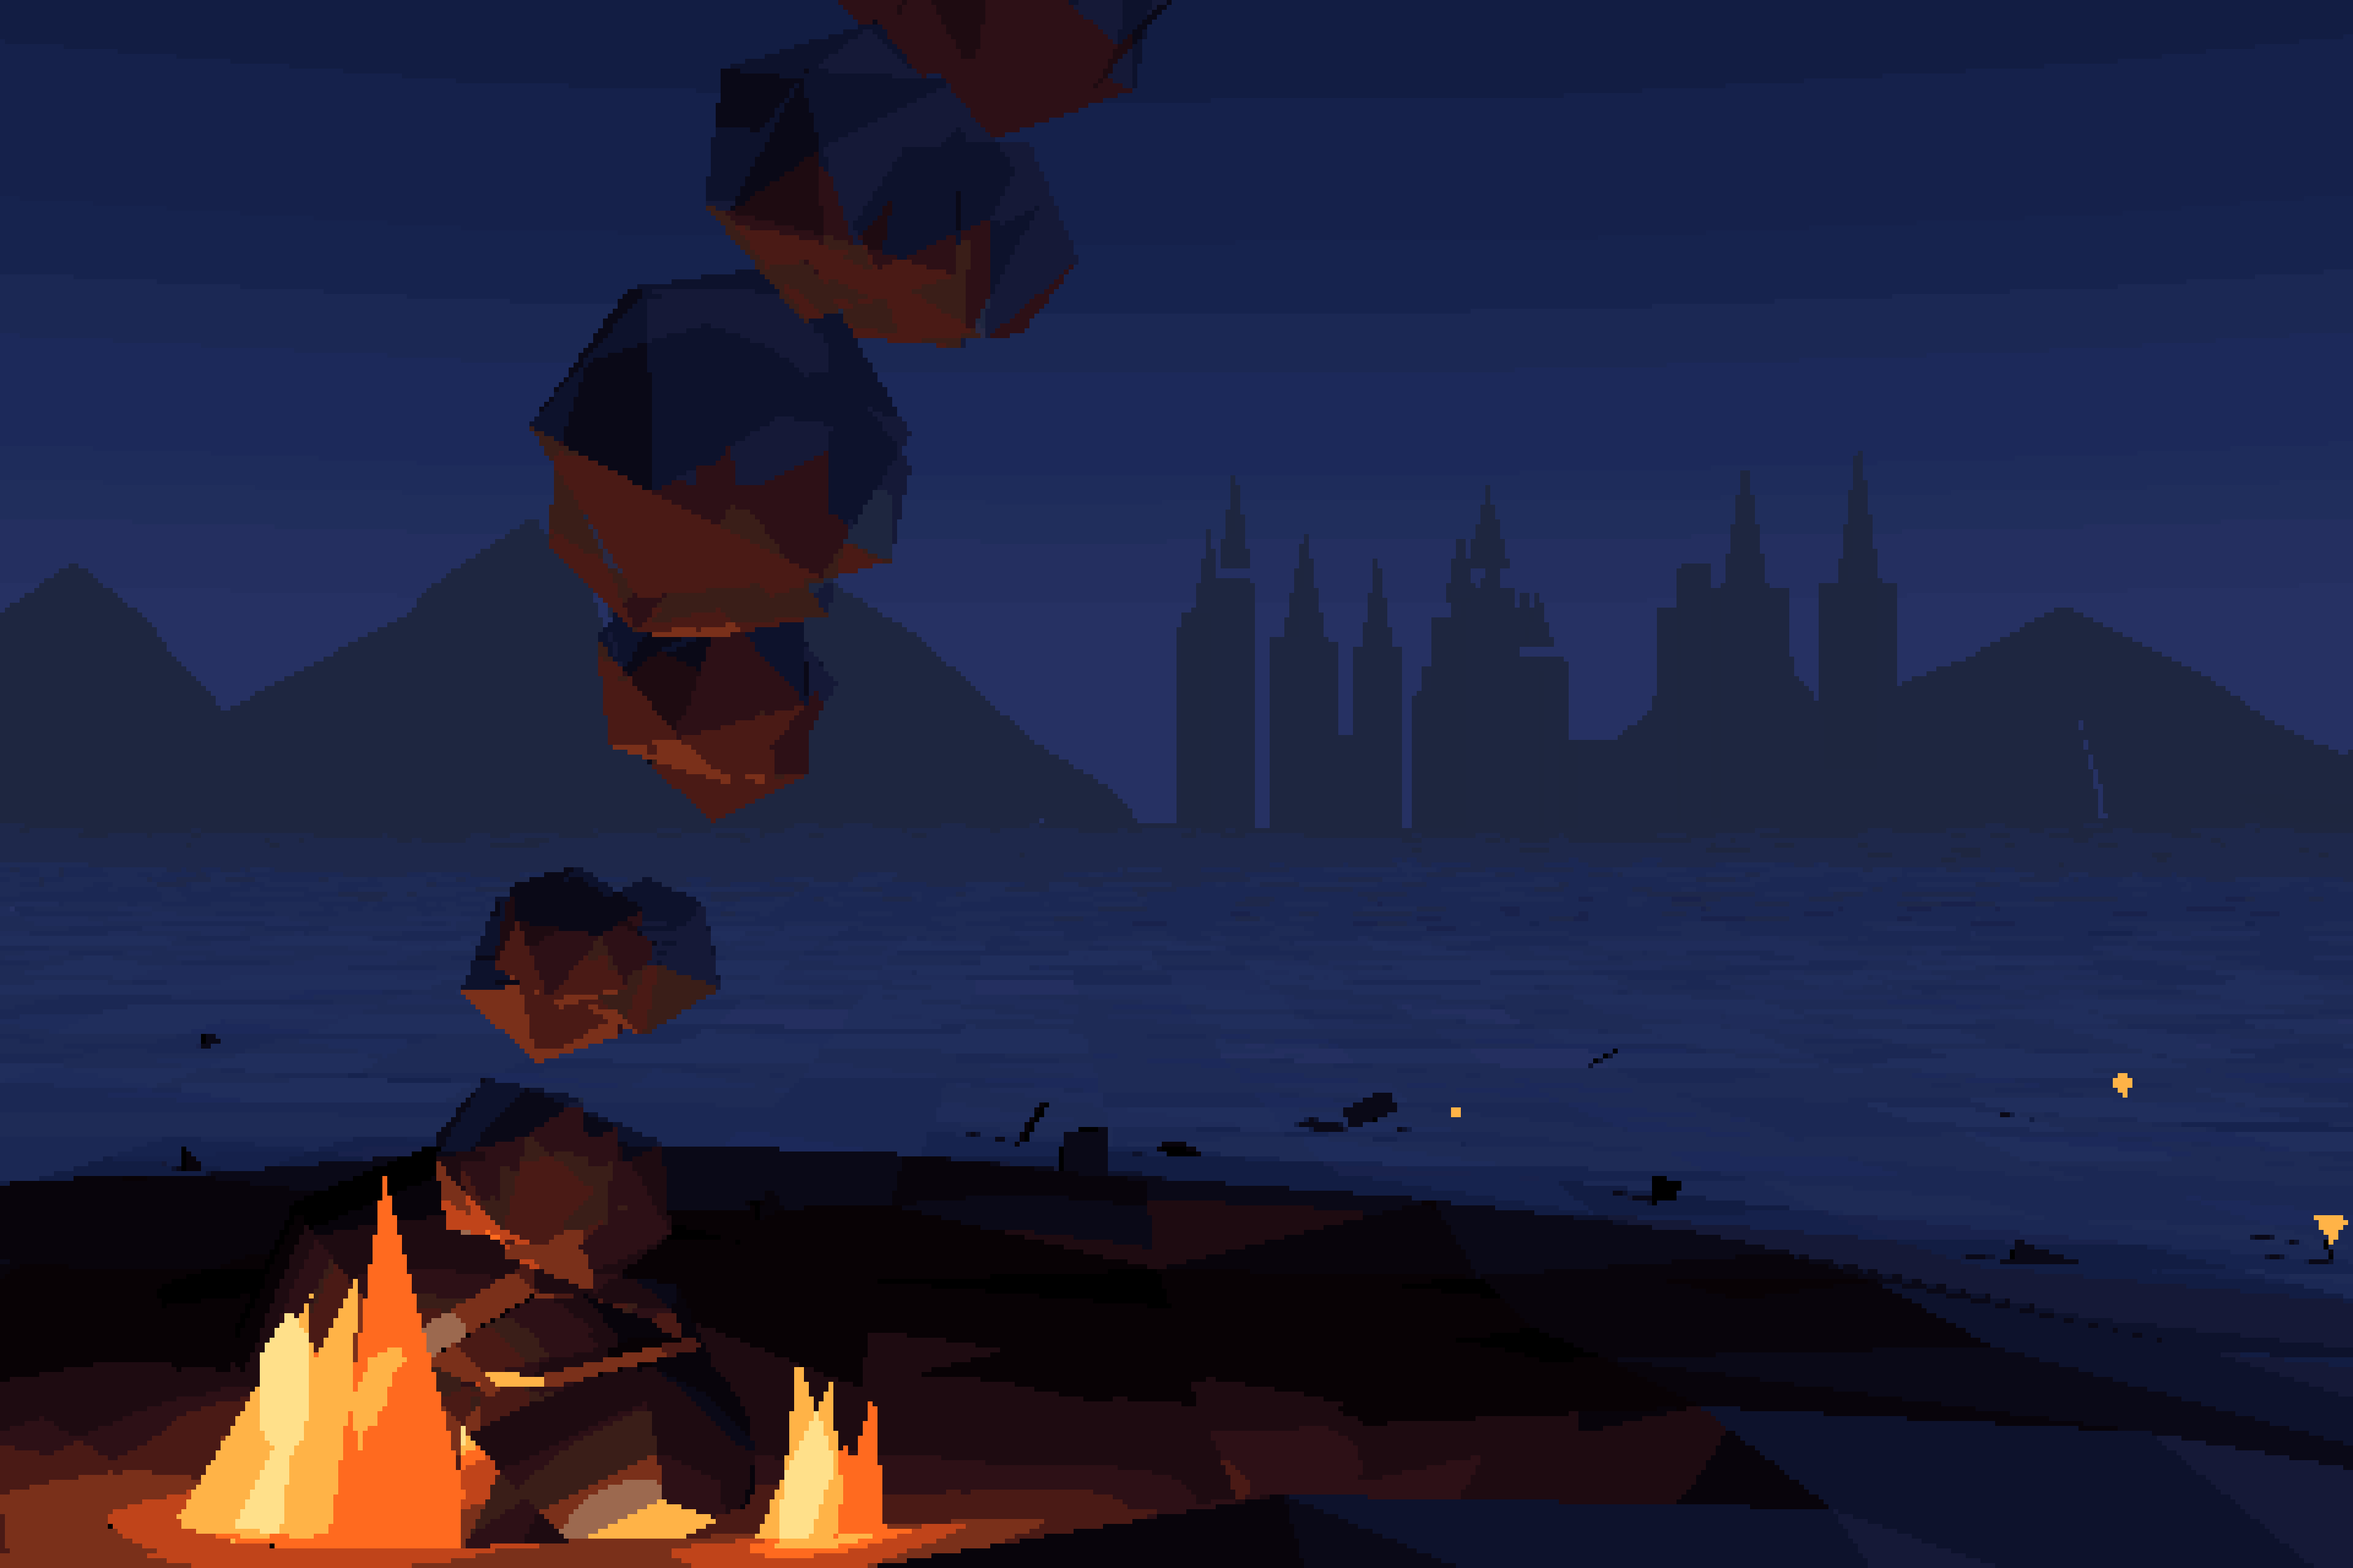
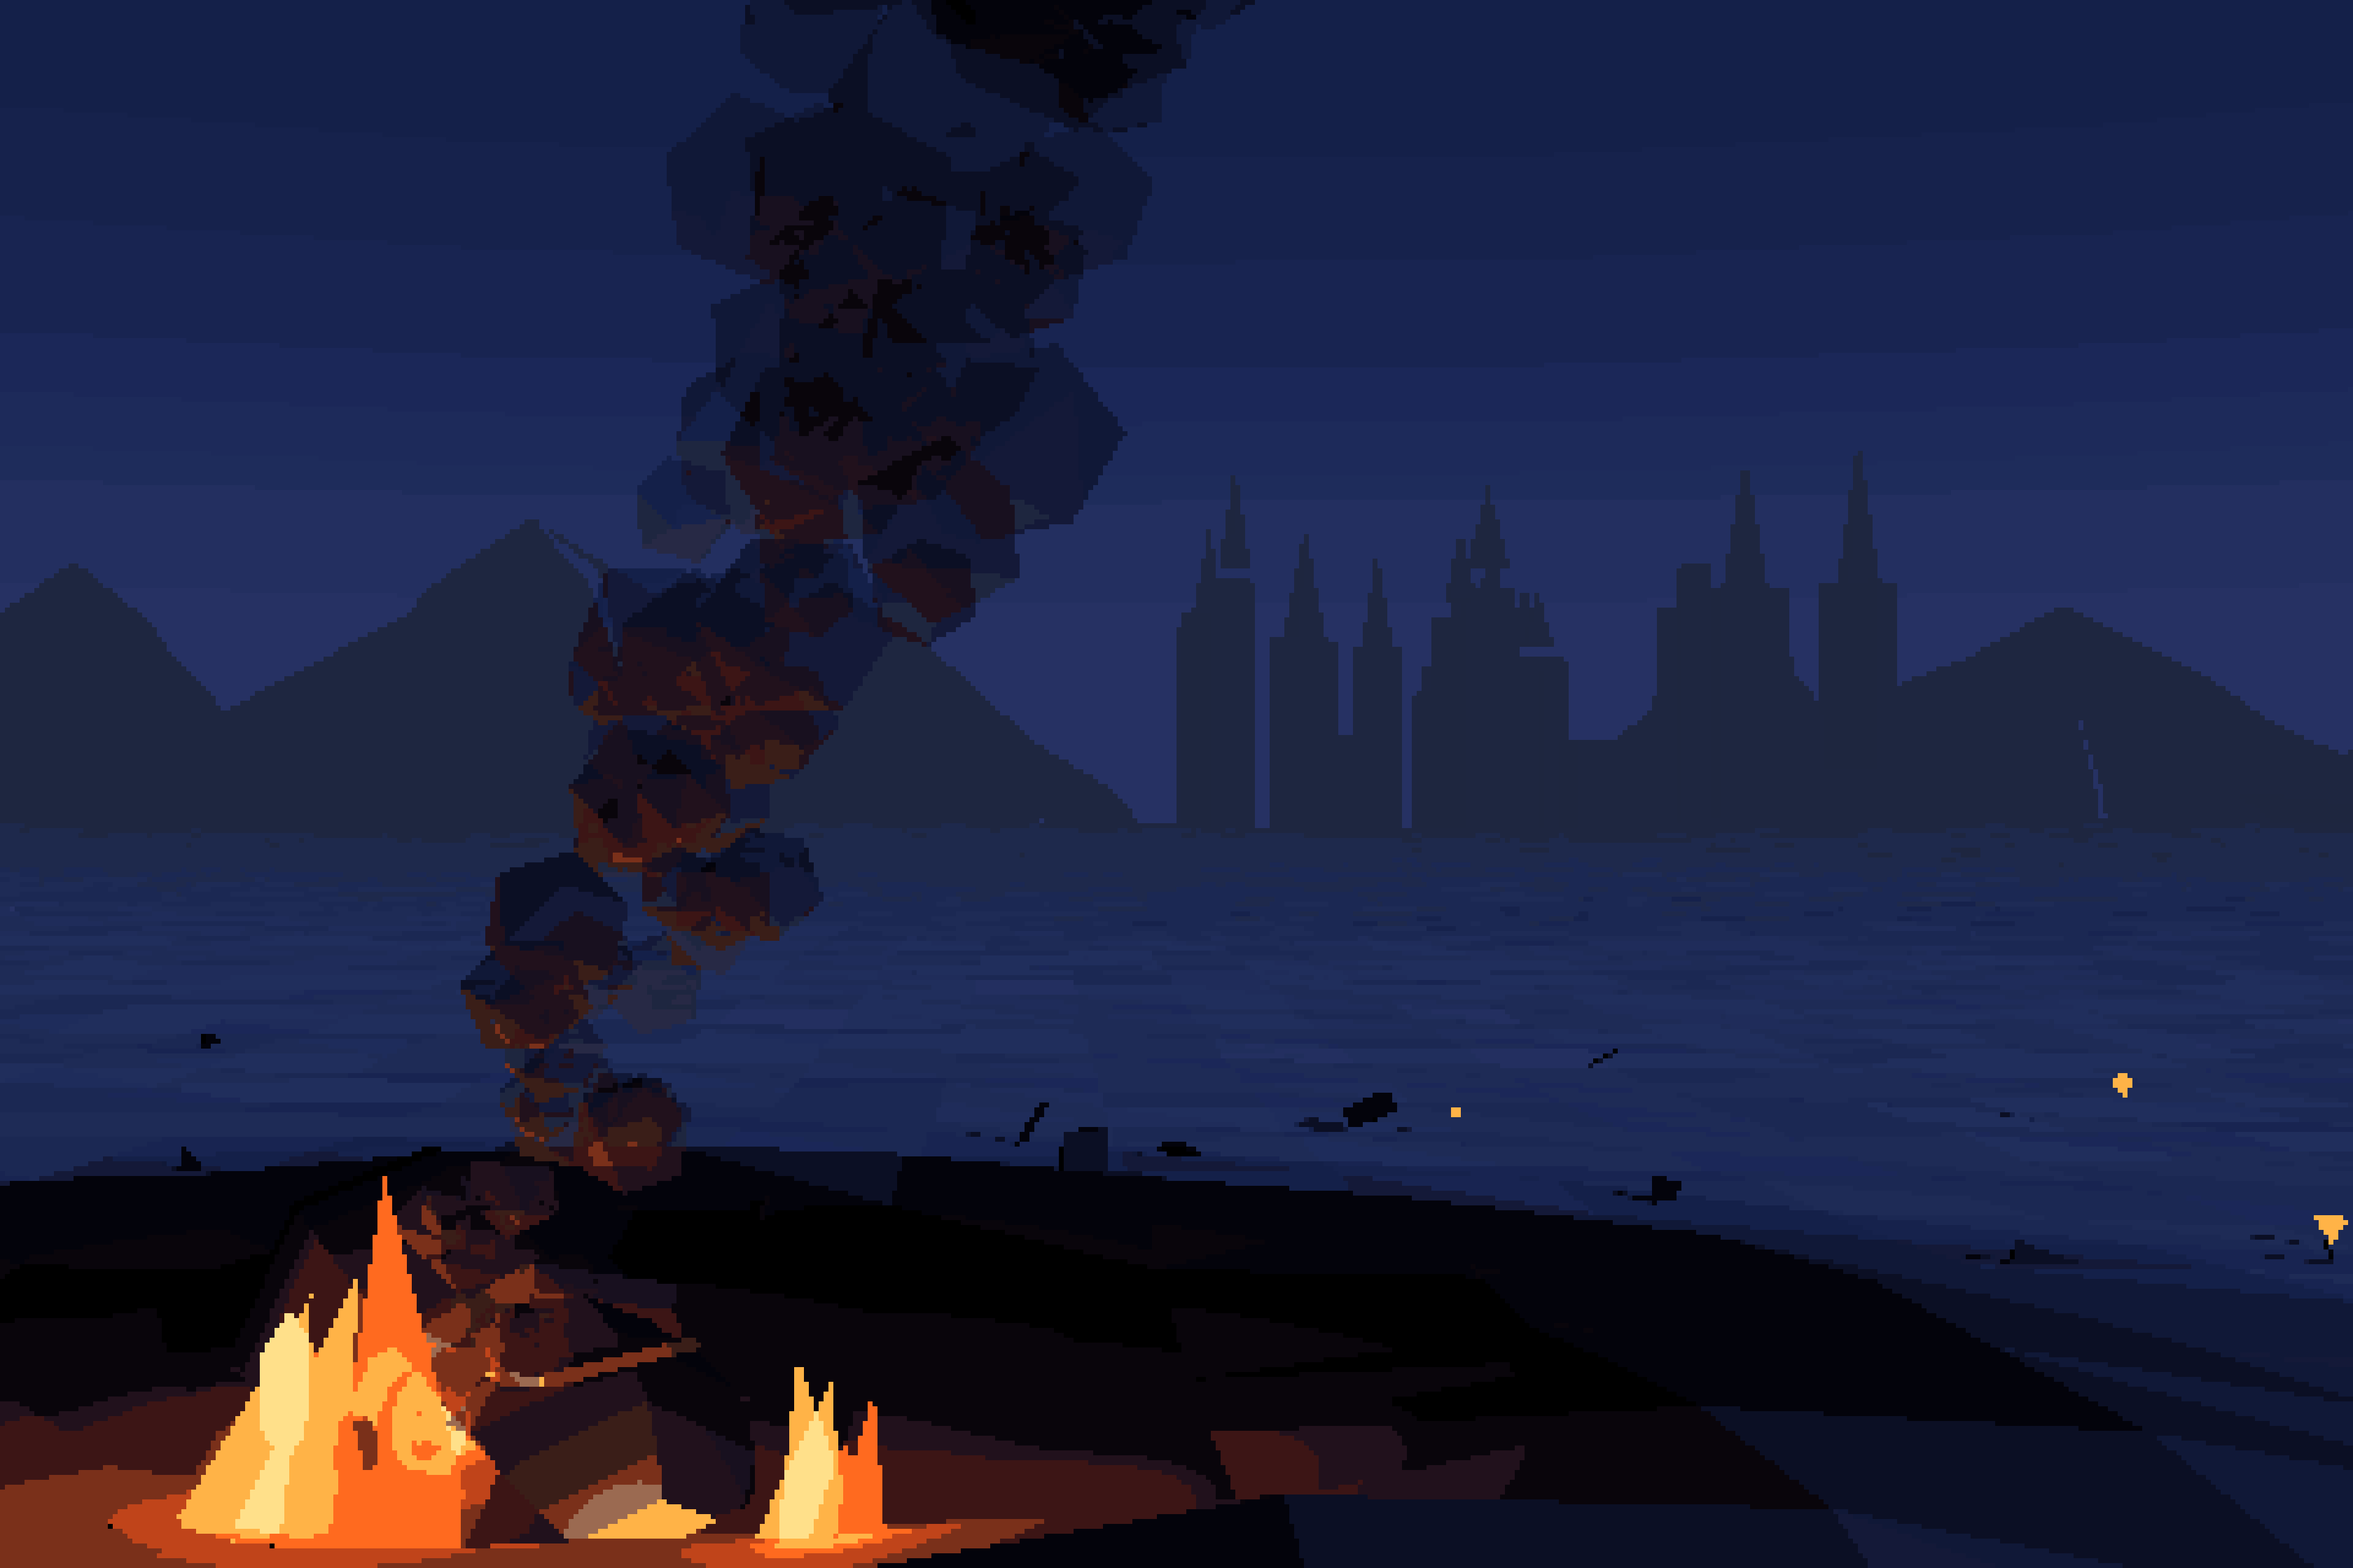
chore(steam): 墜落現場の煙を小さな塊の重なりにして空に溶かす
炎の灯りが届く距離を縮め、高い煙が橙に照らされて浮いた岩に見えないようにする。
山と都市の形を変えないよう、煙は別の乱数で作る。

Claude-Session: https://claude.ai/code/session_01Vr2J9KyW2uHd54vZK8UiUD

diff --git a/docs/steam/background/crash_scene.html b/docs/steam/background/crash_scene.html
@@ -175,7 +175,7 @@ const flame = (x, y, z, s) => {
     m.rotation.set(R(-0.2, 0.2), R(0, 3), R(-0.2, 0.2));
     scene.add(m);
   }
-  const l = new THREE.PointLight('#ff7a30', 30 * s, 18, 1.6);
+  const l = new THREE.PointLight('#ff7a30', 30 * s, 13, 1.6);
   l.position.set(x, y + s, z);
   scene.add(l);
 };
@@ -183,16 +183,26 @@ flame(2.2, -0.9, 0.9, 1.1 * V.fire);
 flame(-1.6, -1.3, 1.6, 0.7 * V.fire);
 flame(5.5, 0.1, -3.5, 0.5 * V.fire);
 
-// 煙の柱: 風下へ流れながら膨らむ。高さごとに数個の塊を重ねる
-for (let i = 0; i < 30; i++) {
-  const t = i / 30;
-  for (let k = 0; k < 3; k++) {
-    const s = (0.6 + t * 6) * R(0.6, 1.1);
-    const col = new THREE.Color('#3e3a42').lerp(new THREE.Color('#c2c6d2'), t * 0.9 + R(0, 0.1));
-    const m = new THREE.Mesh(new THREE.IcosahedronGeometry(s, 0), new THREE.MeshStandardMaterial({ color: col, flatShading: true, transparent: true, opacity: 0.75 - t * 0.5, roughness: 1, depthWrite: false }));
-    m.position.set(2 + t * t * V.wind[0] + R(-1, 1) * s * 0.8, 0.5 + t * V.smokeH + R(-1, 1) * s * 0.3, t * V.wind[1] + R(-1, 1) * s * 0.8);
-    m.rotation.set(R(0, 3), R(0, 3), R(0, 3));
-    scene.add(m);
+// 煙の柱: 小さな塊を数多く重ね、上ほど大きく薄くして空に溶かす。
+// 山と都市の形を保つため、煙は別の乱数で作り、本の乱数は以前の煙と同じ回数だけ進めておく。
+for (let i = 0; i < 720; i++) rnd();
+{
+  let ss = (seed ^ 0x5bd1e995) | 0;
+  const sr = () => { ss = ss + 0x6D2B79F5 | 0; let t = Math.imul(ss ^ ss >>> 15, 1 | ss); t = t + Math.imul(t ^ t >>> 7, 61 | t) ^ t; return ((t ^ t >>> 14) >>> 0) / 4294967296; };
+  const S = (a, b) => a + (b - a) * sr();
+  const geo = new THREE.IcosahedronGeometry(1, 0);
+  for (let i = 0; i < 70; i++) {
+    const t = i / 70;
+    for (let k = 0; k < 5; k++) {
+      const s = (0.35 + t * 3.6) * S(0.5, 1.1);
+      const col = new THREE.Color('#2e2c33').lerp(new THREE.Color('#9aa0b0'), t * 0.8 + S(0, 0.15));
+      const m = new THREE.Mesh(geo, new THREE.MeshStandardMaterial({ color: col, flatShading: true, transparent: true, opacity: (0.6 - t * 0.5) * S(0.6, 1), roughness: 1, depthWrite: false }));
+      const spread = 0.6 + t * 6;
+      m.scale.setScalar(s);
+      m.position.set(2 + t * t * V.wind[0] + S(-1, 1) * spread, 0.5 + t * V.smokeH + S(-1, 1) * spread * 0.4, t * V.wind[1] + S(-1, 1) * spread);
+      m.rotation.set(S(0, 3), S(0, 3), S(0, 3));
+      scene.add(m);
+    }
   }
 }
 

diff --git a/docs/steam/background/gen_crash.py b/docs/steam/background/gen_crash.py
@@ -56,8 +56,8 @@ def seeds_of(args):
     for a in args:
         if ":" in a:
             base, _, rng = a.partition(":")
-            lo, hi = map(int, rng.split("-"))
-            yield from (f"{base}:{j}" for j in range(lo, hi + 1))
+            lo, _, hi = rng.partition("-")
+            yield from (f"{base}:{j}" for j in range(int(lo), int(hi or lo) + 1))
         elif "-" in a:
             lo, hi = map(int, a.split("-"))
             yield from range(lo, hi + 1)
